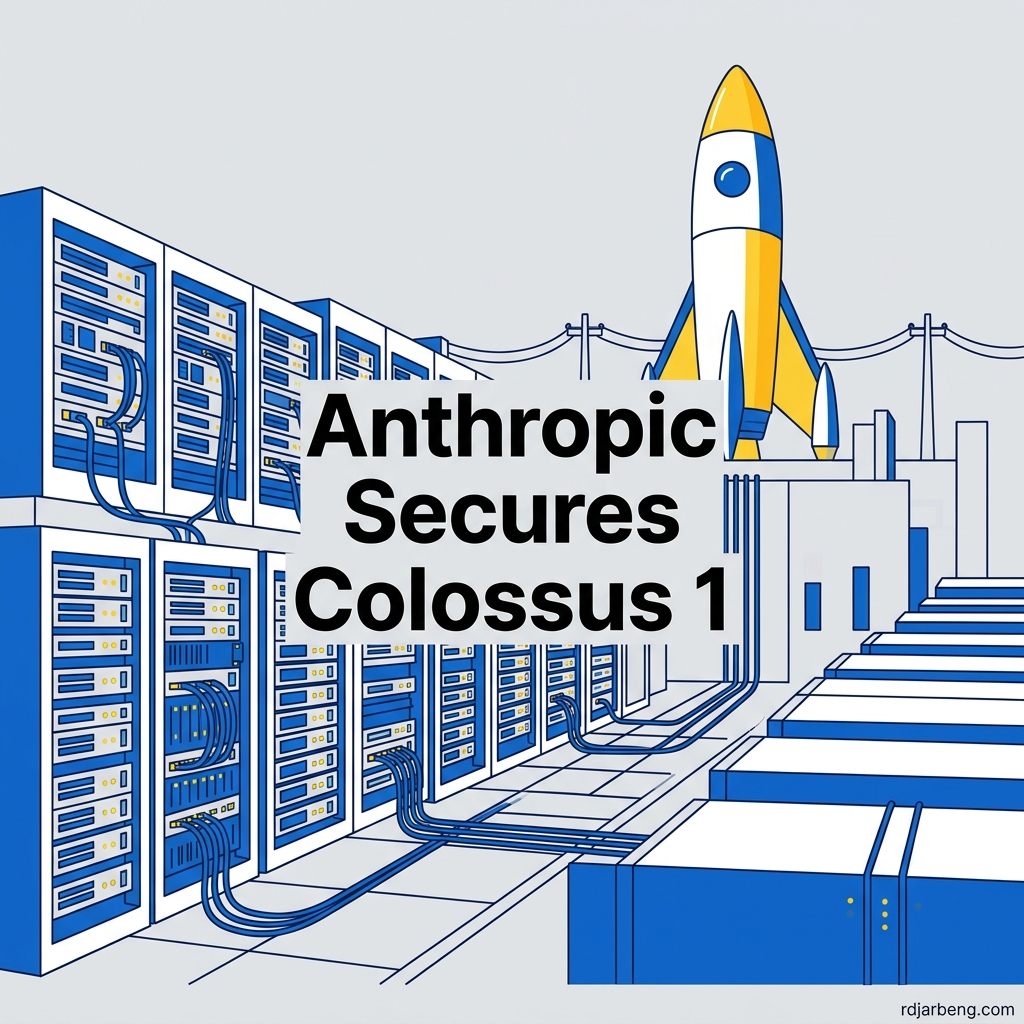
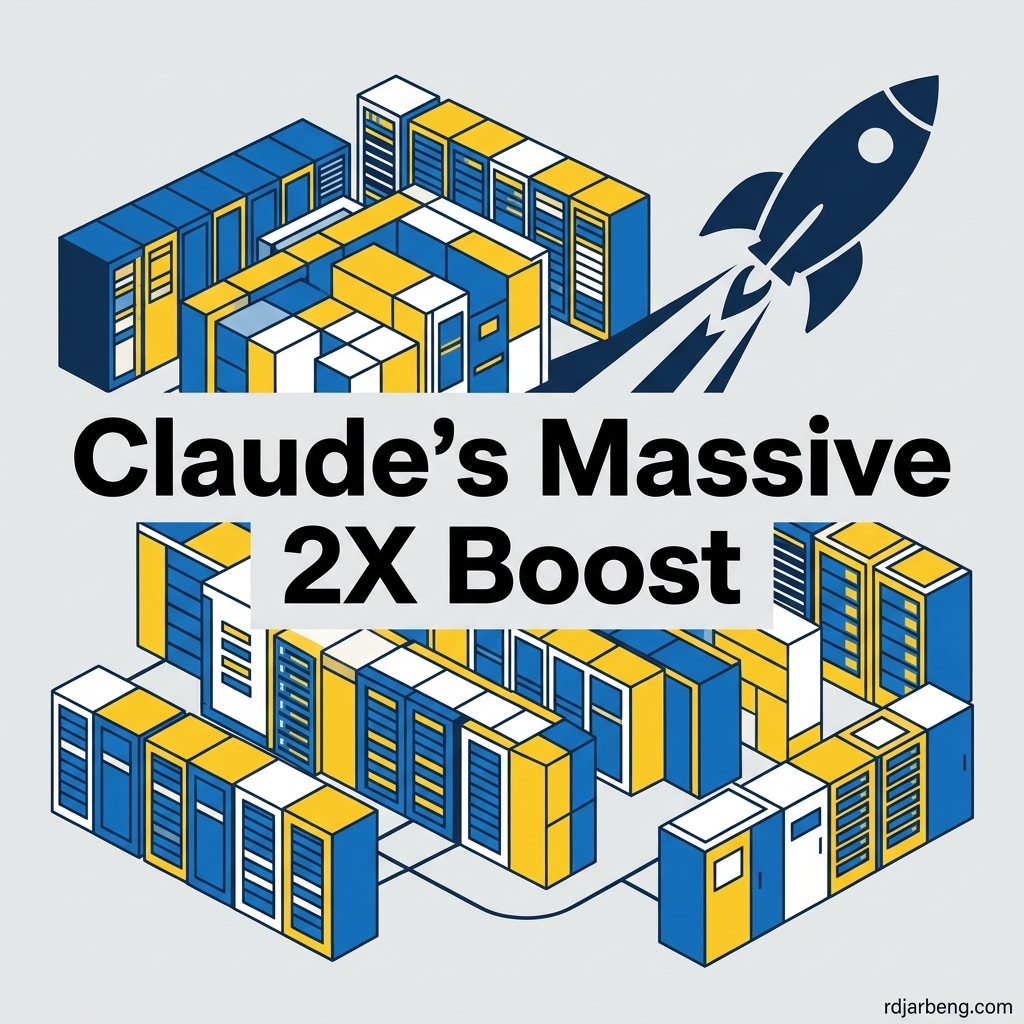
more revisions add tweet

diff --git a/_posts/2026-05-07-anthropic-secures-exclusive-access-to-spacex-s-colossus-1-supercomputer.md b/_posts/2026-05-07-anthropic-secures-exclusive-access-to-spacex-s-colossus-1-supercomputer.md
@@ -9,21 +9,33 @@ tags:
   - Elon Musk
 title: Anthropic Secures Exclusive Access to SpaceX's Colossus 1 Supercomputer
 image: /assets/images/posts/covers/anthropic_spacex_colossus_cover.jpg
-image_alt: A flat vector illustration of a massive supercomputer data center with a rocket silhouette in the background.
+image_alt: A flat vector illustration for the blog post "Claude's Massive 2X Boost" featuring a supercomputer and rocket silhouette.
 layout: post
 card_items: []
 ---
 
-Anthropic announced a major deal for exclusive access to Colossus 1, a massive supercomputer located in Memphis. This data center boasts over 300 megawatts of capacity, which is equivalent to more than 220,000 NVIDIA GPUs coming online this month. The partnership with SpaceX provides a significant boost to Anthropic's compute resources.
+Anthropic, the company behind Claude AI, announced a major deal on May 6 for exclusive access to Colossus 1. This massive supercomputer facility, located in Memphis, represents a significant leap in available compute for the AI laboratory. The data center boasts over 300 megawatts of power capacity, which is equivalent to more than 220,000 NVIDIA GPUs coming online this month. This partnership with SpaceX provides a substantial foundation for Anthropic's future model development and deployment.
 
-### Immediate Benefits for Users
-The new capacity translates to immediate improvements for Claude users. Anthropic is doubling Claude Code rate limits for Pro, Max, Team, and Enterprise plans. Peak-hour limit reductions are now gone for Pro and Max users. Developers using the Opus API will also see substantially higher rate limits.
+<blockquote class="twitter-tweet"><a href="https://x.com/claudeai/status/2052060691893227611?s=20"></a></blockquote><script async src="https://platform.twitter.com/widgets.js" charset="utf-8"></script>
 
-### Elon Musk's Approval
-Elon Musk personally approved the lease after meeting with the Anthropic team. He described them as competent and ethical, noting they did not trigger his "evil-meter." This endorsement is notable given the competitive landscape of AI development.
+### Immediate Benefits for Claude Users
+The influx of new capacity is translating into immediate and tangible benefits for Claude users across various tiers. Effective today, Anthropic is doubling the 5-hour rate limits for Claude Code on Pro, Max, and Team plans. Furthermore, the company is removing the peak-hour limit reductions that previously impacted Pro and Max users, ensuring more consistent access during high-demand periods. 
+
+Developers and enterprise clients will also see significant improvements. Anthropic has boosted rate limits for its most capable model, Claude 3 Opus, across its API services. These changes reflect the massive scale of the Colossus 1 infrastructure and its ability to handle intensive AI workloads.
+
+<blockquote class="twitter-tweet"><a href="https://x.com/ClaudeDevs/status/2052064938840228237?s=20"></a></blockquote><script async src="https://platform.twitter.com/widgets.js" charset="utf-8"></script>
+
+### Elon Musk's Endorsement
+The deal received personal approval from Elon Musk, who met with the Anthropic leadership team before finalizing the lease. Musk spoke highly of the team, describing them as both competent and ethical. He famously noted that they did not trigger his "evil-meter," a term he often uses when evaluating the safety and alignment goals of AI organizations. 
+
+Musk clarified that he was comfortable leasing the facility because xAI had already transitioned its primary training operations to the more advanced Colossus 2 site. This move allowed Anthropic to step into a ready-made, world-class compute environment without disrupting SpaceX's own AI ambitions.
 
 > "After that, I was ok leasing Colossus 1 to Anthropic, as SpaceXAI had already moved training to Colossus 2."
 
-### SpaceXAI Emergence
-In a related move, xAI is being dissolved as a separate entity and integrated directly into SpaceX. The new division, SpaceXAI, will handle all AI products for the aerospace company. SpaceXAI has already transitioned its training operations to the newer Colossus 2 facility, making Colossus 1 available for this partnership.
+### The Birth of SpaceXAI
+In a related and equally significant announcement, Elon Musk revealed that xAI is being dissolved as a standalone company and integrated directly into SpaceX. The new division, named SpaceXAI, will now oversee all artificial intelligence products and research within the aerospace giant. 
+
+This restructuring signals a tighter integration between SpaceX's hardware capabilities and AI development. With SpaceXAI now focused on training at the Colossus 2 facility, the company is positioning itself at the forefront of space-based and terrestrial AI innovation. The move effectively turns SpaceX into a dual-threat powerhouse in both aerospace and high-performance computing.
+
+<blockquote class="twitter-tweet"><a href="https://x.com/elonmusk/status/2052105373621121284"></a></blockquote><script async src="https://platform.twitter.com/widgets.js" charset="utf-8"></script>
 